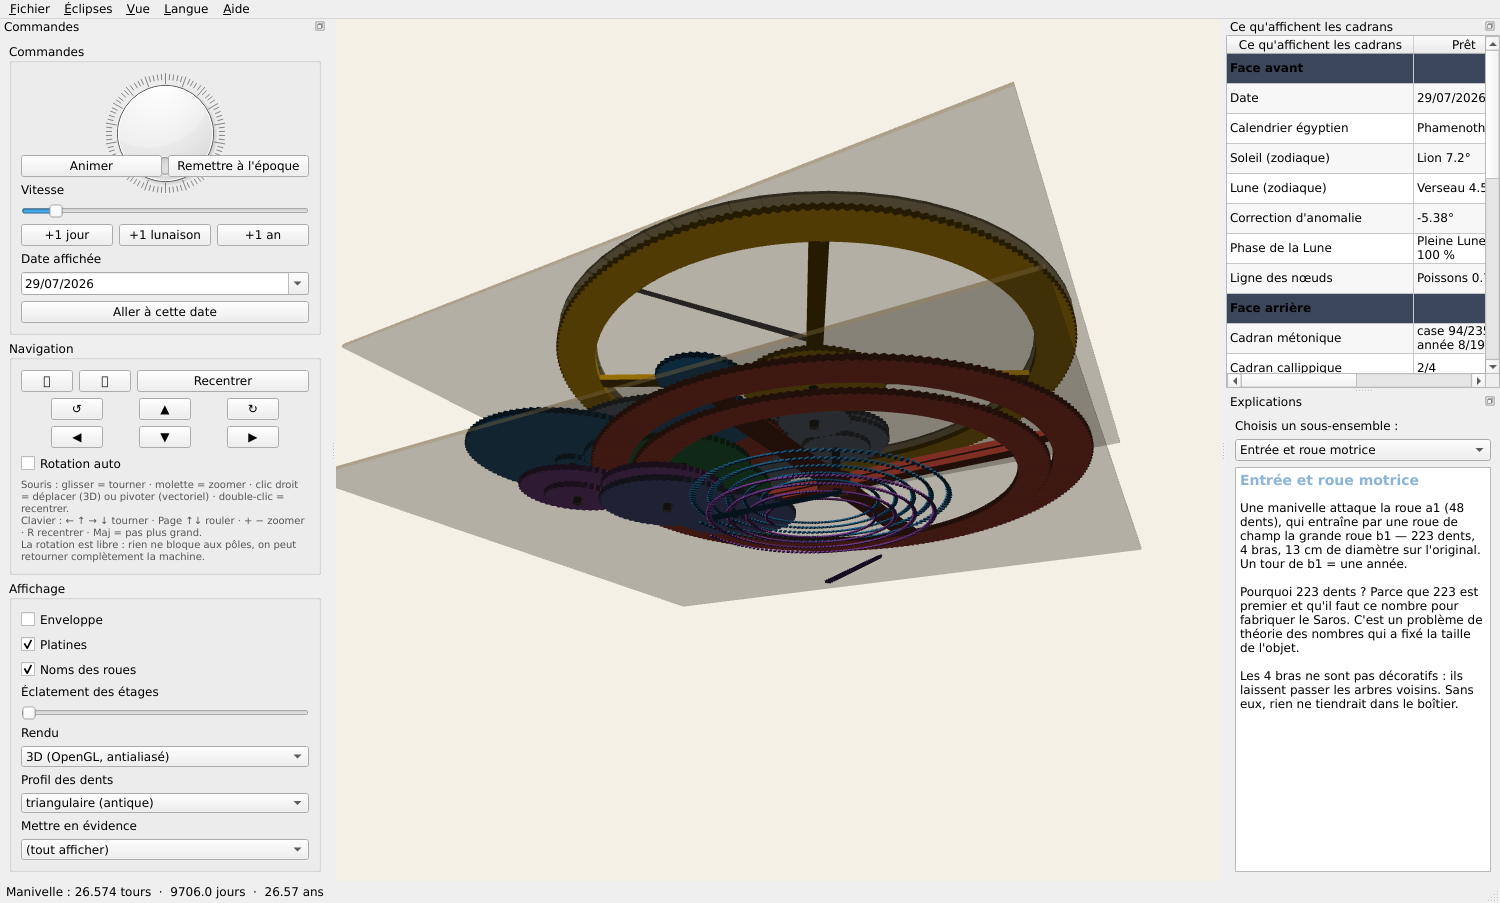
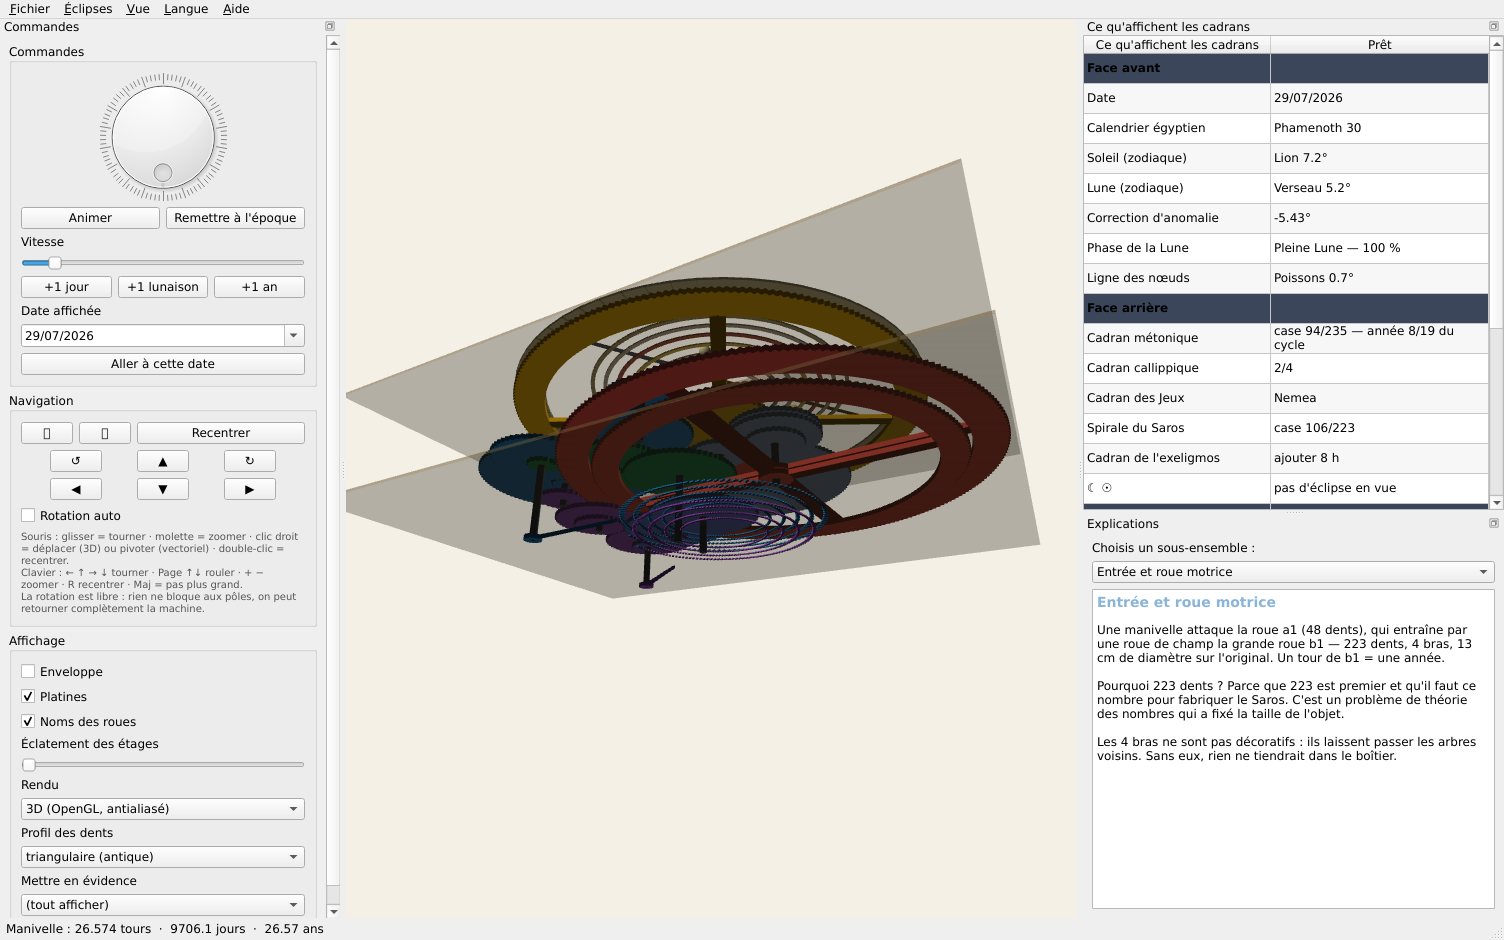
Cadrans portes par leurs arbres, Cosmos planetaire a l'avant
- implantation re-resolue avec n (metonique) et g (Saros) GELES aux centres
  des cadrans (80, +/-52), alignes verticalement comme l'original ; le gel
  par bornes du solveur remplace les penalites, qui ne convergeaient pas
- les cadrans arriere sont dessines SUR leurs arbres (n, g, o, i) : fini
  les spirales decoratives et les aiguilles en levitation ; axes prolonges
  jusqu'aux cadrans, moyeux sous chaque aiguille
- Cosmos avant (modele Freeth 2021) : 7 anneaux concentriques Lune ->
  Saturne, chacun marque de sa petite sphere, tournant aux positions
  calculees — comme sur les reconstitutions physiques
- fond de la plaque arriere aux dimensions du coffret ; titres des
  spirales hors des moyeux ; critere de retournement des textes radiaux
  corrige (rotation effective, pas angle polaire)

diff --git a/anticythere/view3d.py b/anticythere/view3d.py
@@ -111,8 +111,17 @@ if HAS_GL:
                                          profile=self.profile)
                 self._gears[name] = self._add(mesh, color)
 
+            # plans de la façade et du dos, nécessaires avant les arbres
+            zf_pre = lay.level_z(1) + 8.0
+            zb_pre = lay.level_z(16) - 8.0
             for arbor in lay.ARBORS:
                 z0, z1 = lay.arbor_extent(arbor)
+                # les arbres de sortie TRAVERSENT jusqu'à leur cadran : c'est
+                # eux qui portent les aiguilles — fin de la lévitation
+                if arbor in ("n", "g", "o", "i"):
+                    z0 = zb_pre - 12.0
+                if arbor == "b":
+                    z1 = zf_pre + 9.0
                 mesh = geo.cylinder_mesh(lay.ARBOR_RADIUS, z0, z1 - z0, segments=14)
                 self._arbors[arbor] = self._add(mesh, lay.COLORS["arbor"])
 
@@ -124,17 +133,35 @@ if HAS_GL:
 
             # aiguilles : maillage créé À PLAT (z0 = 0), c'est set_pointers qui
             # les place — sinon le décalage en z serait appliqué deux fois.
-            self._pointers["sun"] = self._add(
-                geo.pointer_mesh(lay.SUN_HAND, 0.0), (0.85, 0.65, 0.15, 1.0))
-            self._pointers["moon"] = self._add(
-                geo.pointer_mesh(lay.MOON_HAND, 0.0), (0.80, 0.82, 0.86, 1.0))
-            # aiguilles du dos : leur longueur suit le rayon de leur spirale
-            self._pointers["metonic"] = self._add(
-                geo.pointer_mesh(lay.METONIC_RADIUS * 1.02, 0.0),
-                lay.COLORS["metonic"])
-            self._pointers["saros"] = self._add(
-                geo.pointer_mesh(lay.SAROS_RADIUS * 1.02, 0.0),
-                lay.COLORS["saros"])
+            # Chaque aiguille reçoit un MOYEU : elle est vissée sur son arbre,
+            # pas posée en l'air.
+            def hand(length, color):
+                mesh = geo.merge([
+                    geo.pointer_mesh(length, 0.0),
+                    geo.disc_mesh(4.6, -0.6, 2.4, inner=1.2, segments=24)])
+                return self._add(mesh, color)
+
+            self._pointers["sun"] = hand(lay.SUN_HAND, (0.85, 0.65, 0.15, 1.0))
+            self._pointers["moon"] = hand(lay.MOON_HAND, (0.80, 0.82, 0.86, 1.0))
+            self._pointers["metonic"] = hand(lay.METONIC_RADIUS * 1.02,
+                                             lay.COLORS["metonic"])
+            self._pointers["saros"] = hand(lay.SAROS_RADIUS * 1.02,
+                                           lay.COLORS["saros"])
+
+            # ---- le Cosmos de la face avant : anneaux planétaires tournants
+            # (modèle Freeth 2021), chacun marqué de sa petite sphère — le
+            # sphairion des inscriptions
+            self._planet_rings = {}
+            self._planet_balls = {}
+            z_cosmos = zf_pre + 9.5
+            for idx, (pname, radius, color) in enumerate(lay.COSMOS_RINGS):
+                zr = z_cosmos + 0.12 * idx
+                ring = self._add(geo.disc_mesh(radius + 1.1, zr, 0.8,
+                                               inner=radius - 1.1),
+                                 (color[0], color[1], color[2], 0.95))
+                self._planet_rings[pname] = (ring, radius, zr)
+                ball = self._add(geo.sphere_mesh(3.1, 0.0), color)
+                self._planet_balls[pname] = (ball, radius, zr)
 
             # anneau du zodiaque, visible même machine ouverte
             self._dials = [self._add(
@@ -277,13 +304,27 @@ if HAS_GL:
                 m.translate(x, y, 0.0)
                 item.setTransform(m)
 
+        def set_planets(self, planets: dict, moon_turns: float,
+                        sun_turns: float):
+            """Place la petite sphère de chaque anneau du Cosmos."""
+            values = dict(planets)
+            values["moon"] = moon_turns
+            values["sun"] = sun_turns
+            for pname, (ball, radius, zr) in self._planet_balls.items():
+                turns = values.get(pname, 0.0)
+                m = QtGui.QMatrix4x4()
+                m.translate(0.0, 0.0, zr + 2.2)
+                m.rotate(-360.0 * turns, 0.0, 0.0, 1.0)
+                m.translate(radius, 0.0, 0.0)
+                ball.setTransform(m)
+
         def set_pointers(self, sun_turns, moon_turns, metonic_turns, saros_turns):
             zb = self.z_back
             # chaque aiguille tourne autour du centre de SON cadran : celles du
             # dos ne sont pas sur l'axe central, mais au cœur de leur spirale.
             specs = (
-                ("sun", sun_turns, 0.0, 0.0, self.z_front + 2.5, 1.0),
-                ("moon", moon_turns, 0.0, 0.0, self.z_front + 5.0, 1.0),
+                ("sun", sun_turns, 0.0, 0.0, self.z_front + 11.0, 1.0),
+                ("moon", moon_turns, 0.0, 0.0, self.z_front + 13.0, 1.0),
                 ("metonic", metonic_turns, lay.METONIC_CENTER[0],
                  lay.METONIC_CENTER[1], zb - 2.0, -1.0),
                 ("saros", saros_turns, lay.SAROS_CENTER[0],

diff --git a/anticythere/layout.py b/anticythere/layout.py
@@ -25,24 +25,28 @@ GEAR_THICKNESS = 2.6         # mm
 LEVEL_PITCH = 3.4            # mm entre deux étages (roue + jeu)
 ARBOR_RADIUS = 2.0           # mm
 
-#: position (x, y) de chaque arbre, en mm — résultat de l'optimisation
+#: position (x, y) de chaque arbre, en mm — résultat de l'optimisation, AVEC
+#: la contrainte mécanique des cadrans : l'aiguille métonique est portée par
+#: l'arbre n et celle du Saros par g, donc n et g sont GELÉS aux centres des
+#: deux spirales (80, ±52), alignés verticalement comme sur l'original.
+#: Entraxes exacts à 0,4 µm, aucune collision (implantation7.out).
 ARBORS = {
-    "K": (48.170, -8.712),      # second axe du tenon-fente (décalé de eps)
+    "K": (8.795, -30.198),      # second axe du tenon-fente (décalé de eps)
     "a": (135.500, 0.000),      # manivelle
     "b": (0.000, 0.000),        # grande roue motrice
-    "c": (50.116, -9.455),
-    "d": (82.947, -24.224),
-    "e": (3.806, -31.773),      # 6 roues, 3 vitesses -> tubes coaxiaux
-    "f": (111.192, 22.893),
-    "g": (70.371, 13.014),
-    "h": (55.649, -24.178),
-    "i": (68.257, 11.138),
-    "k": (47.133, -6.817),
-    "l": (40.978, 30.361),
-    "m": (115.270, 24.802),
-    "n": (83.558, 12.540),
-    "o": (59.384, 13.179),
-    "p": (68.277, -21.706),
+    "c": (33.423, -38.521),
+    "d": (12.022, -67.469),
+    "e": (-31.976, -1.254),     # 6 roues, 3 vitesses -> tubes coaxiaux
+    "f": (88.145, -10.797),
+    "g": (80.000, -52.000),     # PORTE L'AIGUILLE DU SAROS
+    "h": (46.569, -30.036),
+    "i": (15.326, -9.297),
+    "k": (10.007, -28.410),
+    "l": (21.528, 46.234),
+    "m": (91.220, 19.905),
+    "n": (80.000, 52.000),      # PORTE L'AIGUILLE MÉTONIQUE
+    "o": (17.938, 12.624),
+    "p": (48.444, 31.740),
 }
 
 #: étage de chaque roue. Deux roues d'un même étage sont dans le même plan
@@ -133,6 +137,12 @@ def arbor_extent(arbor: str) -> tuple[float, float]:
     return min(zs) - 3.0, max(zs) + GEAR_THICKNESS + 3.0
 
 
+#: rayons extérieurs des deux spirales du dos, en mm (définis avant
+#: l'emprise : les cadrans en font partie)
+METONIC_RADIUS = 50.0
+SAROS_RADIUS = 46.25
+
+
 def mechanism_extent(margin: float = 14.0) -> tuple[float, float, float, float]:
     """Emprise réelle du mécanisme : (x_min, x_max, y_min, y_max).
 
@@ -151,6 +161,11 @@ def mechanism_extent(margin: float = 14.0) -> tuple[float, float, float, float]:
     ax, ay = ARBORS["a"]                       # la manivelle sort du flanc
     xs += [ax + 30.0]
     ys += [ay - 20.0, ay + 20.0]
+    # les spirales des cadrans arrière, centrées sur leurs arbres n et g
+    for arbor, rad in (("n", METONIC_RADIUS), ("g", SAROS_RADIUS)):
+        x, y = ARBORS[arbor]
+        xs += [x - rad, x + rad]
+        ys += [y - rad, y + rad]
     return (min(xs) - margin, max(xs) + margin,
             min(ys) - margin, max(ys) + margin)
 
@@ -179,19 +194,24 @@ _ZOD_IN_F, _ZOD_OUT_F = 0.63, 0.825
 SUN_HAND = FRONT_DIAL_SPAN / 2.0 * _ZOD_OUT_F - 3.0          # 97,7 mm
 MOON_HAND = FRONT_DIAL_SPAN / 2.0 * (_ZOD_IN_F + _ZOD_OUT_F) / 2.0   # 88,8 mm
 
-#: côté de la texture du dos, en mm
-BACK_DIAL_SPAN = 250.0
-#: positions dans la texture, en fraction de son côté (cf. dialface)
-_METONIC_FY, _SAROS_FY = 0.30, 0.72
-#: rayons extérieurs des deux spirales, en fraction du côté
-_METONIC_FR, _SAROS_FR = 0.20, 0.185
+#: côté de la texture du dos, en mm — doit couvrir tout le boîtier
+BACK_DIAL_SPAN = 300.0
 
-# Position dans la scène d'un point de la texture, à la fraction (fx, fy).
-# Pipeline TexturedQuadItem (convention écran : ligne 0 de l'image en haut) :
-#     Y = cy + span * (1/2 - fy)
-# Vérifié en calcul formel — anticythere_texture.sage, section « MISE À JOUR ».
-# (L'ancien pipeline GLImageItem avait la formule opposée : à ne pas remettre.)
-METONIC_CENTER = (CASE_CX, CASE_CY + BACK_DIAL_SPAN * (0.5 - _METONIC_FY))
-SAROS_CENTER = (CASE_CX, CASE_CY + BACK_DIAL_SPAN * (0.5 - _SAROS_FY))
-METONIC_RADIUS = BACK_DIAL_SPAN * _METONIC_FR
-SAROS_RADIUS = BACK_DIAL_SPAN * _SAROS_FR
+#: anneaux du Cosmos de la face avant (modèle Freeth 2021 : les planètes en
+#: anneaux concentriques marqués d'une petite sphère). Rayon en mm ; ils
+#: doivent rester sous l'anneau du zodiaque (r intérieur 77).
+COSMOS_RINGS = [
+    ("moon", 26.0, (0.75, 0.78, 0.84, 1.0)),
+    ("mercury", 34.0, (0.55, 0.48, 0.42, 1.0)),
+    ("venus", 42.0, (0.90, 0.83, 0.62, 1.0)),
+    ("sun", 50.0, (1.00, 0.80, 0.25, 1.0)),
+    ("mars", 58.0, (0.78, 0.32, 0.20, 1.0)),
+    ("jupiter", 65.0, (0.85, 0.76, 0.62, 1.0)),
+    ("saturn", 72.0, (0.72, 0.62, 0.38, 1.0)),
+]
+
+# Les centres des cadrans arrière SONT les arbres qui portent leurs
+# aiguilles : c'est la contrainte imposée à l'implantation. Plus aucune
+# position de cadran n'est indépendante de la mécanique.
+METONIC_CENTER = ARBORS["n"]
+SAROS_CENTER = ARBORS["g"]

diff --git a/anticythere/dialface.py b/anticythere/dialface.py
@@ -76,8 +76,11 @@ def _ring_text(p: QtGui.QPainter, cx, cy, radius, angle_deg, text,
     """Écrit un texte le long d'un rayon, tourné pour suivre le cercle."""
     p.save()
     p.translate(cx, cy)
-    # dans la moitié basse, un texte radial serait tête-bêche : on le retourne
-    flipped = 90.0 < (angle_deg % 360.0) < 270.0
+    # un texte est tête-bêche quand sa ROTATION EFFECTIVE (90 - angle)
+    # dépasse ±90° — pas quand son angle polaire est dans la moitié basse :
+    # ce raccourci retournait à tort tout le quadrant haut-gauche
+    rot = (90.0 - angle_deg) % 360.0
+    flipped = 90.0 < rot < 270.0
     p.rotate(-angle_deg + 90.0 + (180.0 if flipped else 0.0))
     f = p.font()
     f.setPixelSize(max(1, int(font_px)))
@@ -189,9 +192,12 @@ def _spiral(p, cx, cy, s, turns, cells, r0, r1, label):
                                   cy - (r - w) * math.sin(a)),
                    QtCore.QPointF(cx + (r + w) * math.cos(a),
                                   cy - (r + w) * math.sin(a)))
-    f = p.font(); f.setPixelSize(max(1, int(s * 0.017))); f.setBold(True)
+    # titre AU-DESSUS de la spirale : au centre, il serait caché par le
+    # moyeu et l'aiguille
+    f = p.font(); f.setPixelSize(max(1, int(s * 0.016))); f.setBold(True)
     p.setFont(f); p.setPen(ENGRAVE)
-    p.drawText(QtCore.QRectF(cx - s * 0.2, cy - s * 0.022, s * 0.4, s * 0.044),
+    p.drawText(QtCore.QRectF(cx - s * 0.2, cy - r1 - s * 0.030,
+                             s * 0.4, s * 0.026),
                QtCore.Qt.AlignmentFlag.AlignCenter, label)
 
 
@@ -222,26 +228,52 @@ def _small_dial(p, cx, cy, s, rad, sectors, labels, title):
 def paint_back_dial(p: QtGui.QPainter, cx: float, cy: float, R: float,
                     lang: str = "fr", with_background: bool = True) -> None:
     """Spirale métonique (5 tours, 235 cases), spirale du Saros (4 tours,
-    223 cases) et les trois petits cadrans : Jeux, Callippe, exeligmos."""
+    223 cases) et les petits cadrans — chacun DESSINÉ SUR SON ARBRE.
+
+    Les positions viennent de l'implantation (layout.ARBORS) : l'aiguille
+    métonique est portée par l'arbre n, celle du Saros par g, le callippique
+    par o, l'exeligmos par i. Le cadran n'est plus un décor posé n'importe
+    où : il est l'extrémité visible du train qui l'entraîne.
+    """
+    from . import layout as lay
+
     s = R / 0.485
     x0, y0 = cx - s / 2.0, cy - s / 2.0
+    ppm = s / lay.BACK_DIAL_SPAN                   # pixels par millimètre
+
+    def at(arbor):
+        """Position texture d'un arbre. La texture est affichée en miroir
+        (on regarde le dos) : x est inversé ; y écran vers le haut, y texture
+        vers le bas : inversé aussi."""
+        ax, ay = lay.ARBORS[arbor]
+        return (cx - (ax - lay.CASE_CX) * ppm,
+                cy - (ay - lay.CASE_CY) * ppm)
 
     if with_background:
+        # le fond épouse le boîtier réel (W × H mm), pas le carré de la
+        # texture : sinon la plaque de bronze déborde du coffret
+        bw, bh = lay.CASE_WIDTH * ppm, lay.CASE_HEIGHT * ppm
         grad = QtGui.QRadialGradient(cx, cy - R * 0.2, R * 1.35)
         grad.setColorAt(0.0, QtGui.QColor(240, 220, 168))
         grad.setColorAt(1.0, BRONZE_MID)
         p.setBrush(QtGui.QBrush(grad))
         p.setPen(QtGui.QPen(ENGRAVE_SOFT, s * 0.004))
-        p.drawRect(QtCore.QRectF(x0, y0, s, s))
+        p.drawRect(QtCore.QRectF(cx - bw / 2.0, cy - bh / 2.0, bw, bh))
 
-    _spiral(p, cx, y0 + s * 0.30, s, 5, 235, s * 0.055, s * 0.20, "ΜΕΤΩΝ · 235")
-    _spiral(p, cx, y0 + s * 0.72, s, 4, 223, s * 0.050, s * 0.185, "ΣΑΡΟΣ · 223")
-    _small_dial(p, x0 + s * 0.185, y0 + s * 0.30, s, s * 0.062, 4,
+    nx, ny = at("n")
+    gx, gy = at("g")
+    _spiral(p, nx, ny, s, 5, 235, lay.METONIC_RADIUS * 0.275 * ppm,
+            lay.METONIC_RADIUS * ppm, "ΜΕΤΩΝ · 235")
+    _spiral(p, gx, gy, s, 4, 223, lay.SAROS_RADIUS * 0.27 * ppm,
+            lay.SAROS_RADIUS * ppm, "ΣΑΡΟΣ · 223")
+    ox, oy = at("o")
+    ix, iy = at("i")
+    _small_dial(p, ox, oy, s, 13.0 * ppm, 4, ["1", "2", "3", "4"], "ΚΑΛΛΙΠΠΟΣ")
+    _small_dial(p, ix, iy, s, 12.0 * ppm, 3, EXELIGMOS_LABELS, "ΕΞΕΛΙΓΜΟΣ")
+    # le cadran des Jeux n'a pas d'arbre modélisé : il reste gravé, dans le
+    # coin libre en haut à gauche de la plaque, comme un médaillon
+    _small_dial(p, cx - 95.0 * ppm, cy + 95.0 * ppm, s, 13.0 * ppm, 4,
                 GAMES_GREEK, "ΑΓΩΝΕΣ")
-    _small_dial(p, x0 + s * 0.815, y0 + s * 0.30, s, s * 0.052, 4,
-                ["1", "2", "3", "4"], "ΚΑΛΛΙΠΠΟΣ")
-    _small_dial(p, x0 + s * 0.5, y0 + s * 0.945, s, s * 0.048, 3,
-                EXELIGMOS_LABELS, "ΕΞΕΛΙΓΜΟΣ")
 
 
 # ================================================================ textures

diff --git a/anticythere/view2d.py b/anticythere/view2d.py
@@ -53,6 +53,7 @@ class VectorView(QtWidgets.QWidget):
         self._angles: dict[str, float] = {}
         self._carrier = 0.0
         self._pointers = (0.0, 0.0, 0.0, 0.0)
+        self._planets: dict[str, float] = {}
         self._zoom = 1.0
         self._pan = QtCore.QPointF(0.0, 0.0)
         self._rot = 0.0                 # rotation du plan, en degrés
@@ -90,6 +91,12 @@ class VectorView(QtWidgets.QWidget):
 
     def set_pointers(self, sun, moon, metonic, saros):
         self._pointers = (sun, moon, metonic, saros)
+        self.update()
+
+    def set_planets(self, planets: dict, moon_turns: float, sun_turns: float):
+        self._planets = dict(planets)
+        self._planets["moon"] = moon_turns
+        self._planets["sun"] = sun_turns
         self.update()
 
     def look_at(self, mode: str):
@@ -293,15 +300,19 @@ class VectorView(QtWidgets.QWidget):
     def _draw_pointers(self, painter: QtGui.QPainter):
         sun, moon, met, sar = self._pointers
         painter.save()
+        # (turns, longueur, couleur, largeur, centre)
         specs = []
         if self.face in ("front", "all"):
-            specs += [(sun, 104.0, lay.COLORS["input"], 3.2),
-                      (moon, 88.0, lay.COLORS["moon"], 2.4)]
+            specs += [(sun, lay.SUN_HAND, lay.COLORS["input"], 3.2, (0.0, 0.0)),
+                      (moon, lay.MOON_HAND, lay.COLORS["moon"], 2.4, (0.0, 0.0))]
         if self.face in ("back", "all"):
-            specs += [(met, 58.0, lay.COLORS["metonic"], 2.4),
-                      (sar, 52.0, lay.COLORS["saros"], 2.4)]
-        for turns, length, color, wid in specs:
+            specs += [(met, lay.METONIC_RADIUS, lay.COLORS["metonic"], 2.4,
+                       lay.METONIC_CENTER),
+                      (sar, lay.SAROS_RADIUS, lay.COLORS["saros"], 2.4,
+                       lay.SAROS_CENTER)]
+        for turns, length, color, wid, (px, py) in specs:
             painter.save()
+            painter.translate(px, py)
             painter.rotate(-360.0 * turns)
             painter.setPen(QtGui.QPen(_qcolor(color), 0.6))
             painter.setBrush(_qcolor(color))
@@ -311,10 +322,26 @@ class VectorView(QtWidgets.QWidget):
                                     QtCore.QPointF(length, wid / 4),
                                     QtCore.QPointF(-6.0, wid / 2)])
             painter.drawPolygon(poly)
+            # moyeu : l'aiguille est fixée sur son axe
+            painter.setBrush(_qcolor(lay.COLORS["arbor"]))
+            painter.drawEllipse(QtCore.QPointF(0, 0), 4.2, 4.2)
             painter.restore()
-        painter.setBrush(_qcolor(lay.COLORS["dial"]))
-        painter.setPen(QtGui.QPen(_qcolor(lay.INK), 0.5))
-        painter.drawEllipse(QtCore.QPointF(0, 0), 5.0, 5.0)
+
+        # le Cosmos : anneaux planétaires et leurs petites sphères
+        if self.face in ("front", "all") and self._planets:
+            for pname, radius, color in lay.COSMOS_RINGS:
+                turns = self._planets.get(pname)
+                if turns is None:
+                    continue
+                painter.setBrush(QtCore.Qt.BrushStyle.NoBrush)
+                painter.setPen(QtGui.QPen(_qcolor(color, 0.8), 1.6))
+                painter.drawEllipse(QtCore.QPointF(0, 0), radius, radius)
+                a = 2.0 * math.pi * turns
+                painter.setBrush(_qcolor(color))
+                painter.setPen(QtGui.QPen(_qcolor(lay.INK), 0.4))
+                painter.drawEllipse(
+                    QtCore.QPointF(radius * math.cos(a), radius * math.sin(a)),
+                    3.2, 3.2)
         painter.restore()
 
     def _draw_labels(self, painter, width, height, scale, for_export):

diff --git a/anticythere/mainwindow.py b/anticythere/mainwindow.py
@@ -580,6 +580,8 @@ class MainWindow(QtWidgets.QMainWindow):
         o = self.mech.outputs()
         self.view.set_angles(self.mech.gear_angles(), o.carrier_e3)
         self.view.set_pointers(o.mean_sun, o.moon_true, o.metonic, o.saros)
+        if hasattr(self.view, "set_planets"):
+            self.view.set_planets(o.planets, o.moon_true, o.mean_sun)
         self._fill_table(o)
         self.status.showMessage(tr("status.turns", self.lang, turns=o.turns,
                                    days=o.days, years=o.days / 365.24219))

diff --git a/anticythere/__init__.py b/anticythere/__init__.py
@@ -3,5 +3,5 @@
 Antikythera Mechanism simulator.
 """
 
-__version__ = "1.0.2"
+__version__ = "1.1.0"
 __all__ = ["__version__"]
